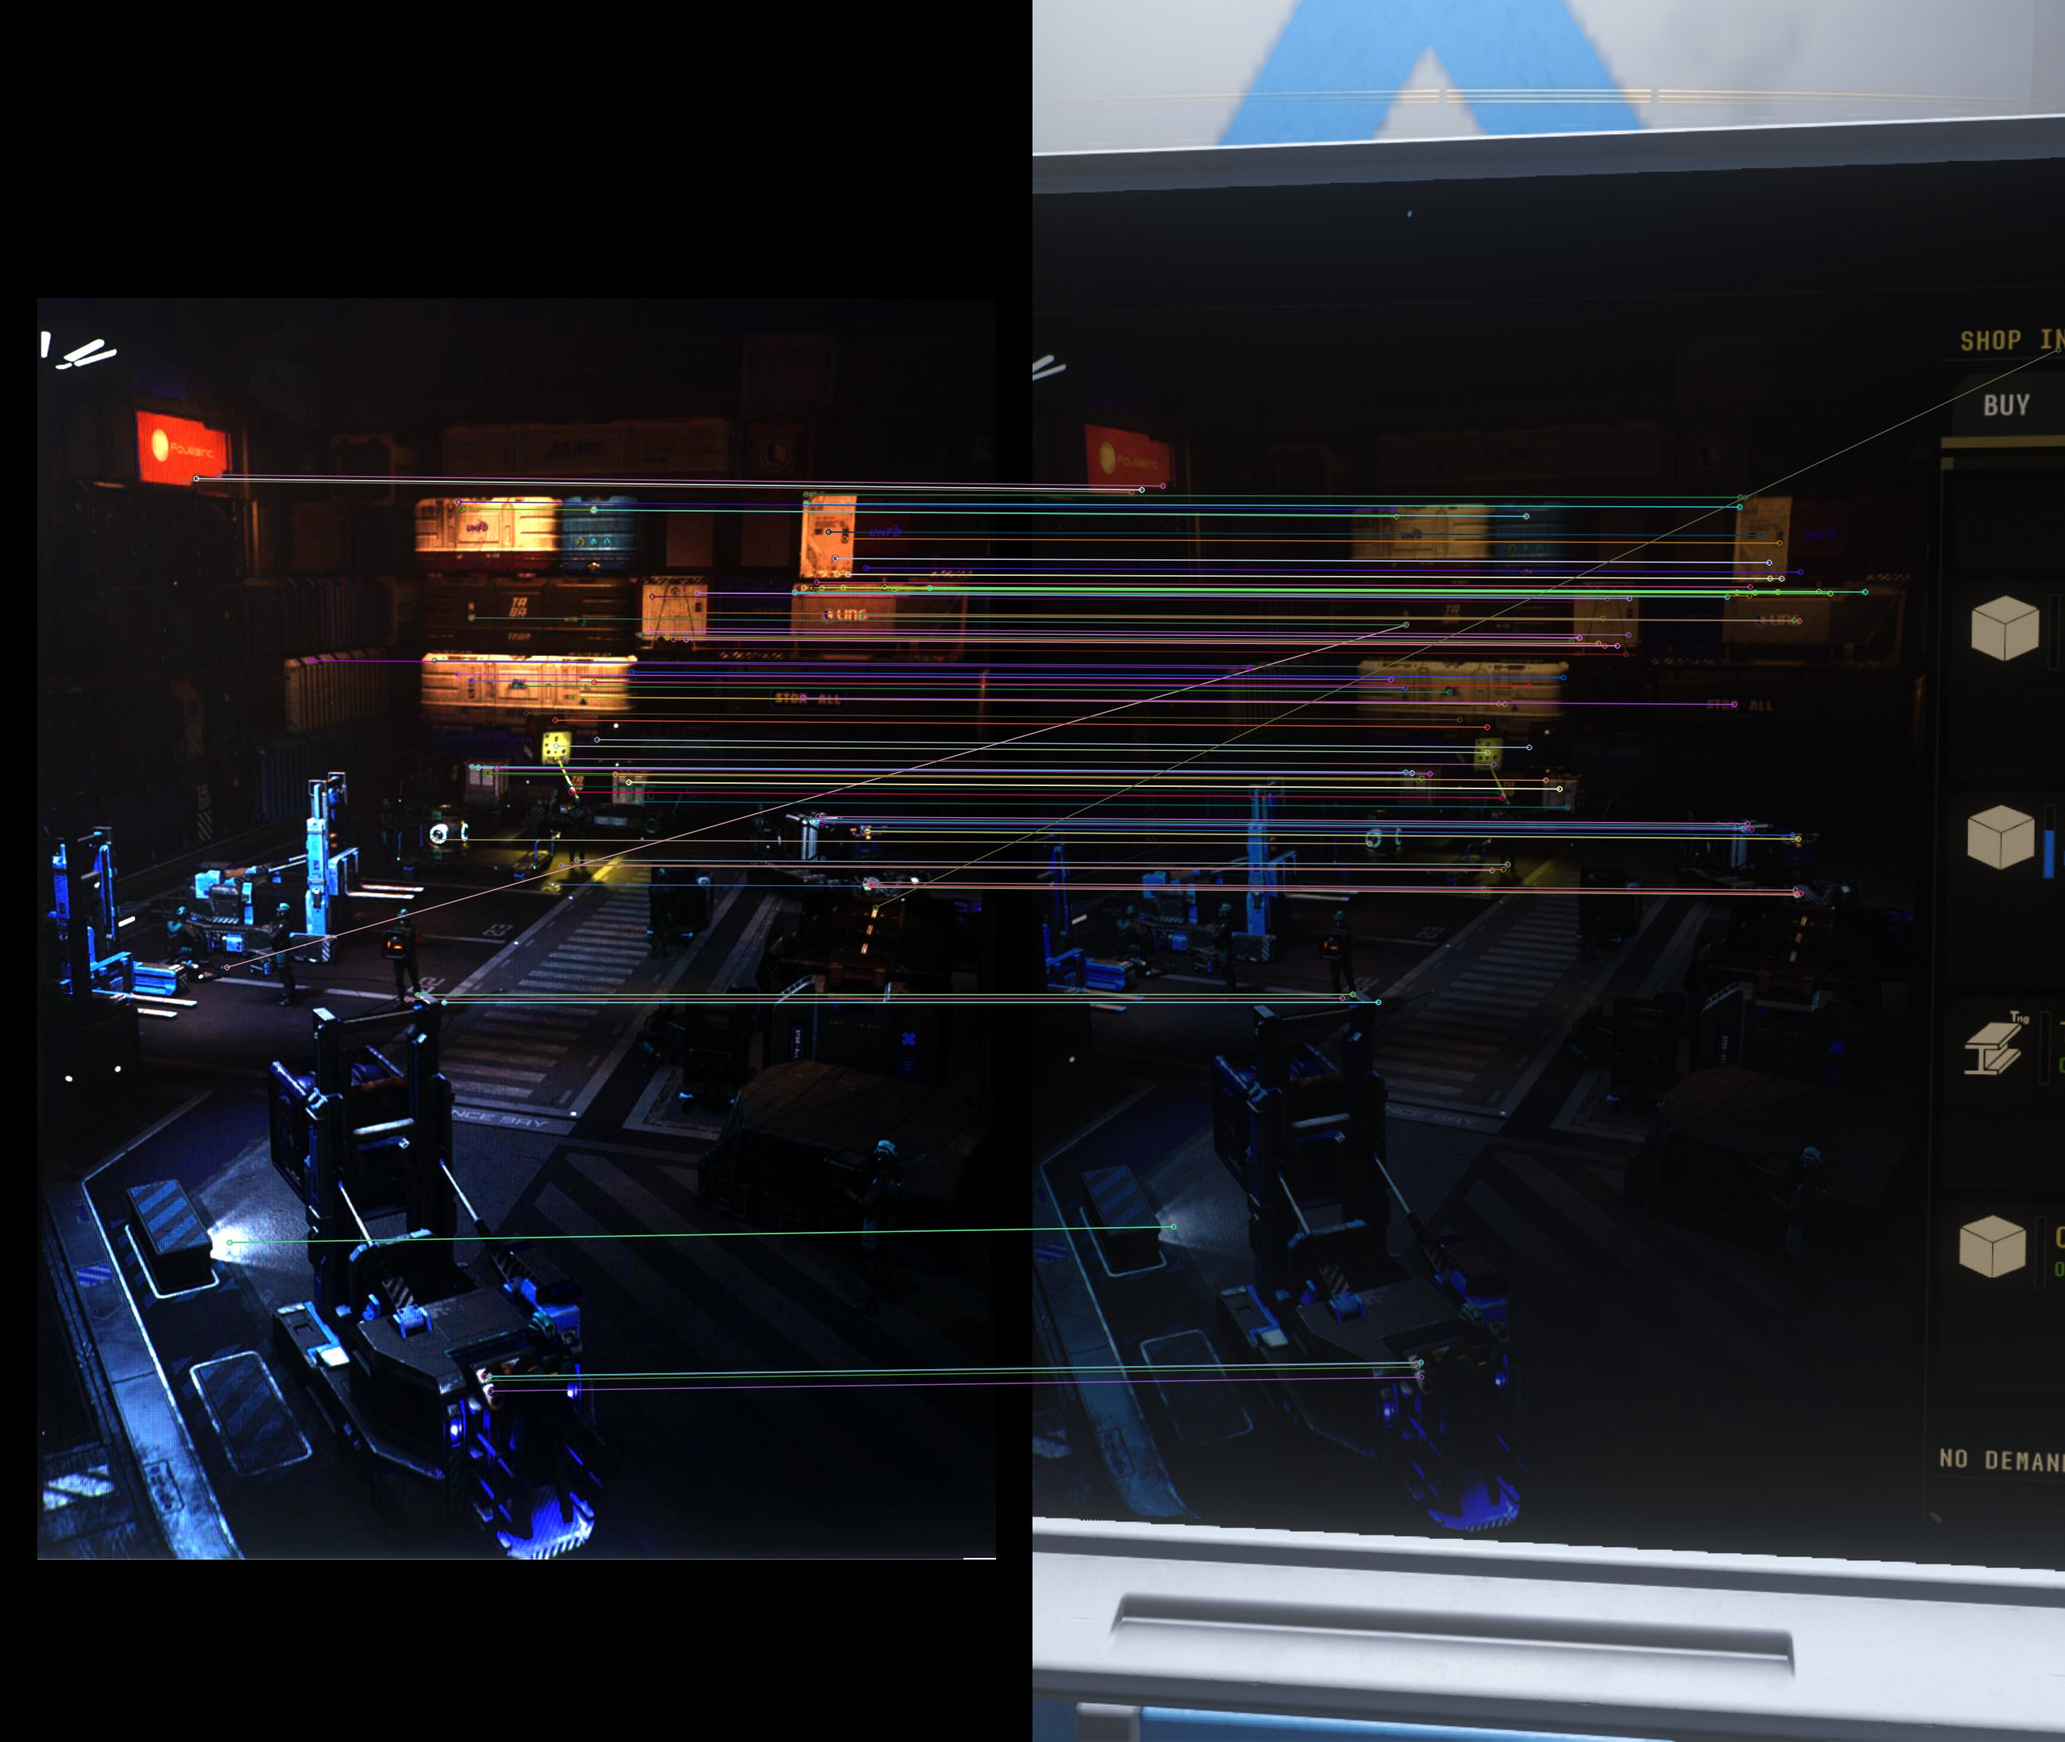
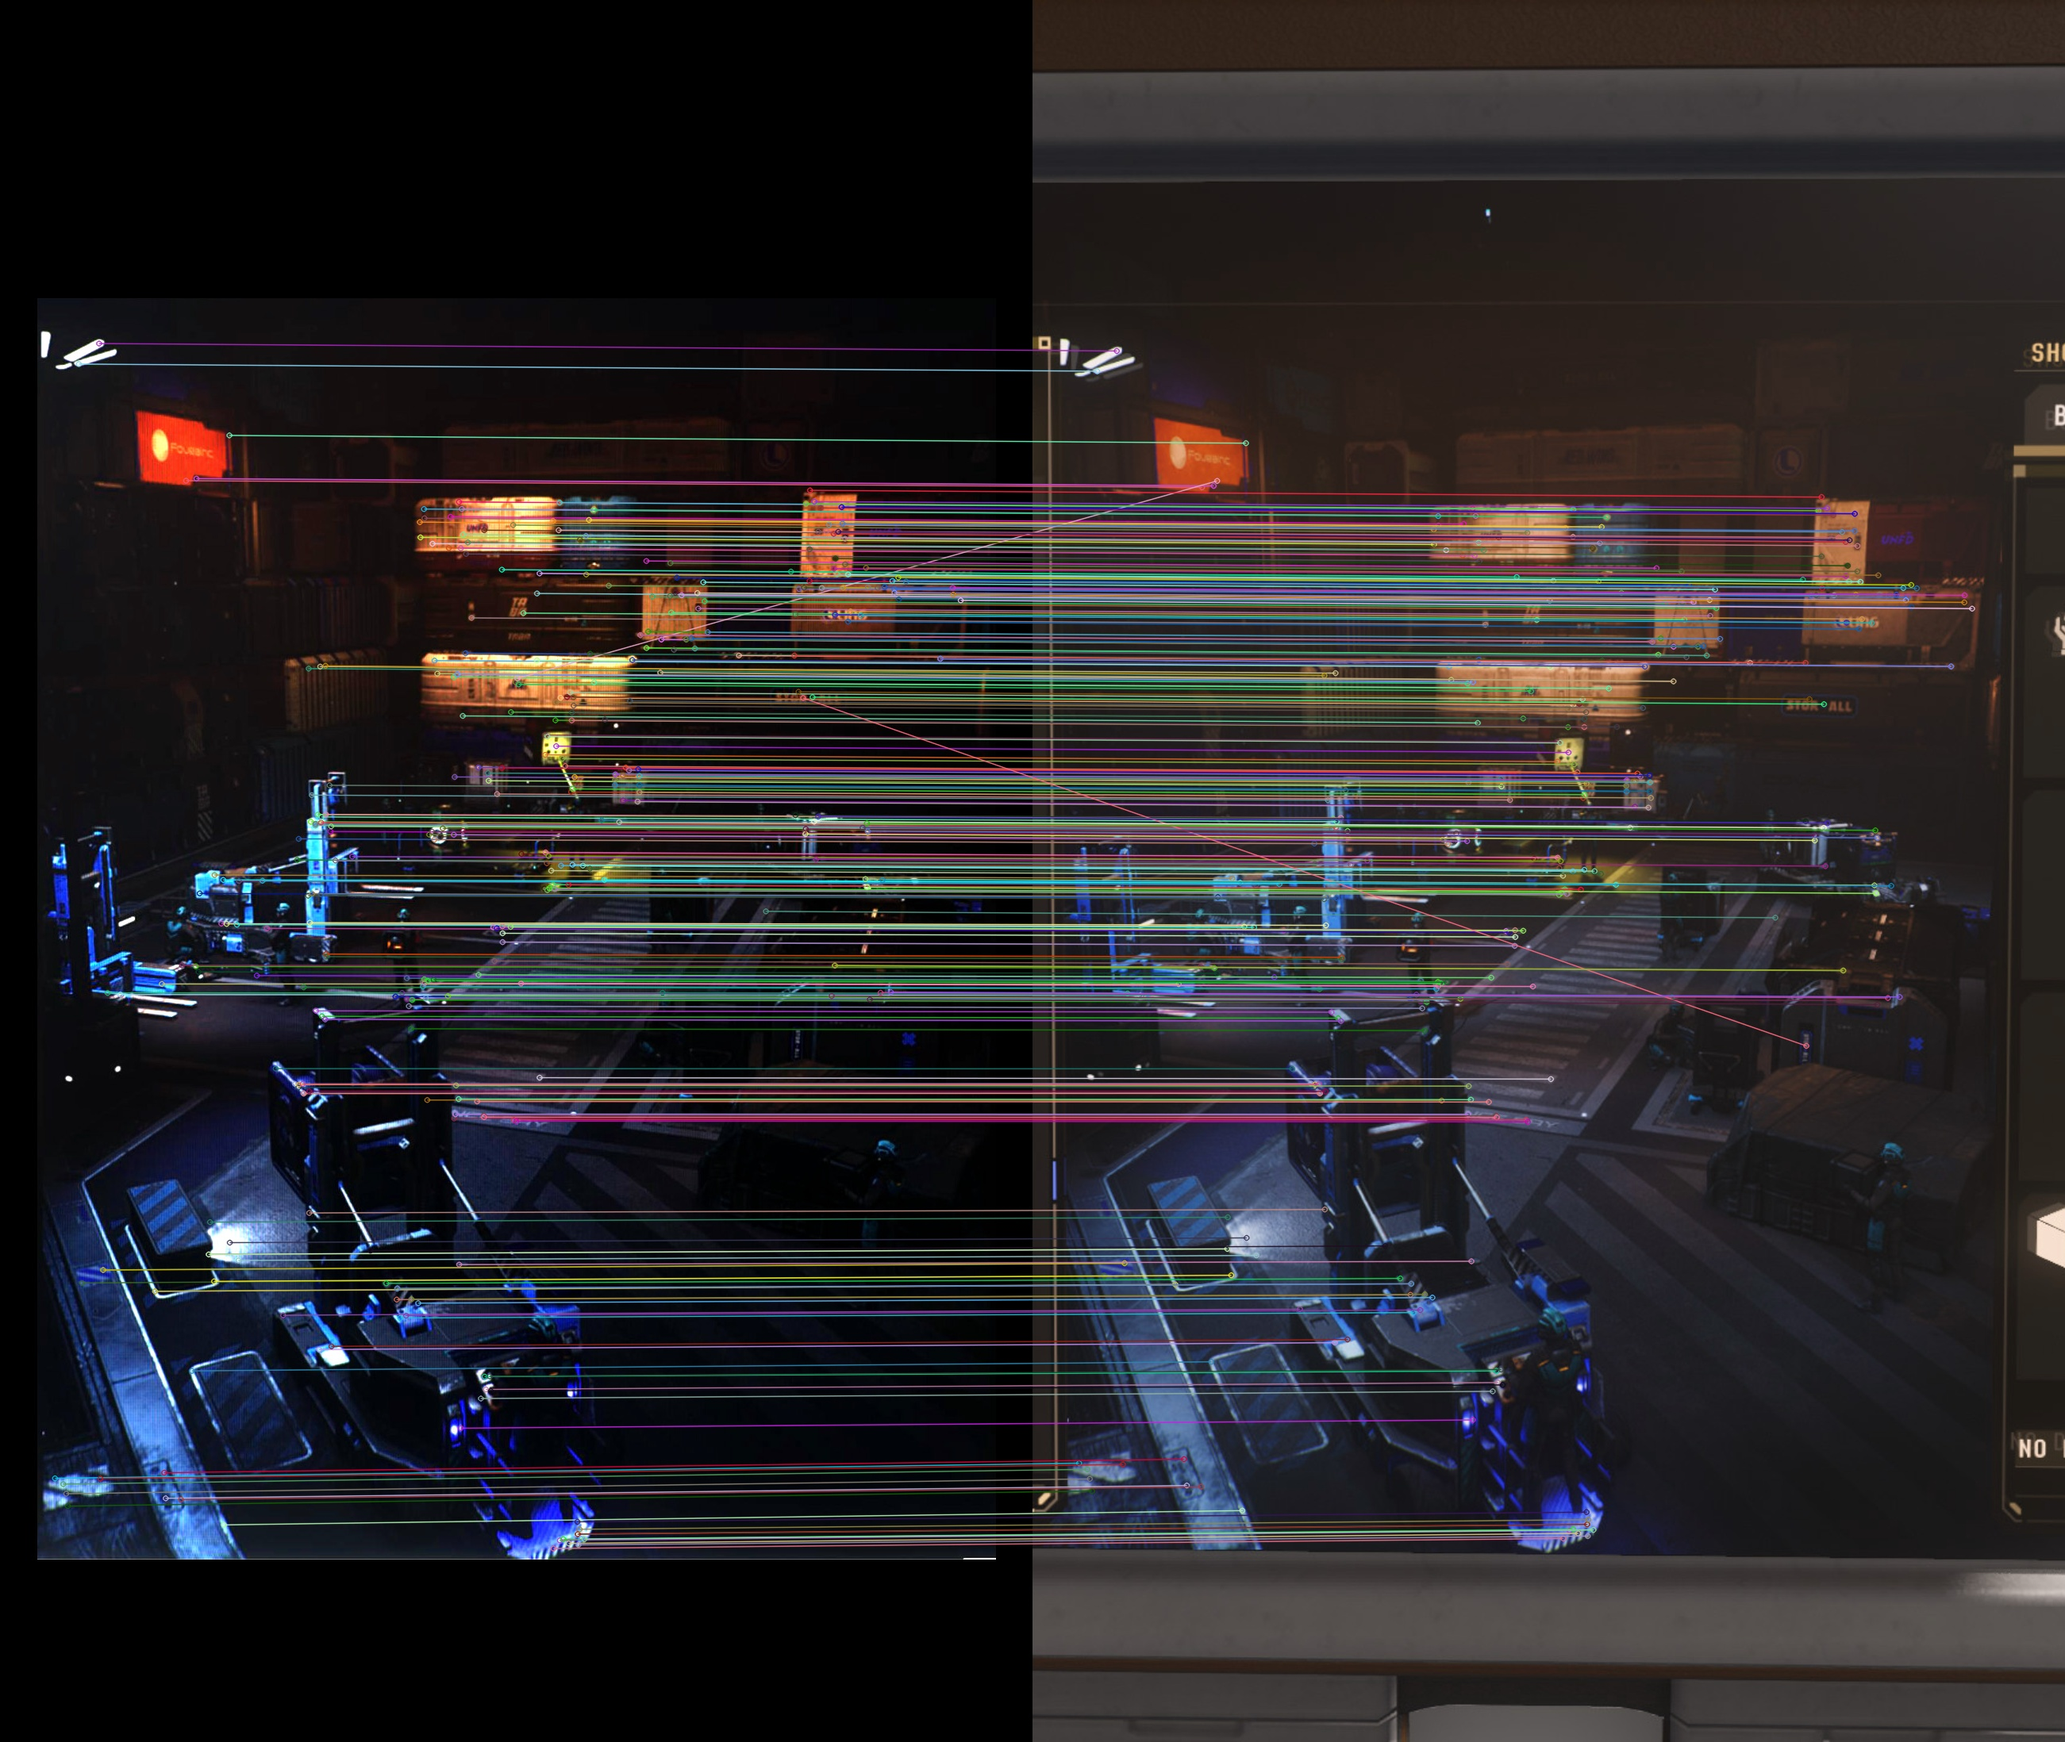
docs: _ALL_COMMANDS.md exhaustif + màj debug_matches.jpg

diff --git a/docs/_ALL_COMMANDS.md b/docs/_ALL_COMMANDS.md
@@ -1,0 +1,390 @@
+# UEXInfo — Liste exhaustive des commandes CLI
+
+> Toutes les commandes commencent par `/` (espaces/tabulations tolérés en préfixe)
+> Autocomplétion disponible via `Tab`
+> Aide contextuelle : `/help <commande>`
+
+---
+
+## Syntaxe générale
+
+```
+/commande [sous-commande] [argument] [--option valeur]
+```
+
+---
+
+## /help — Aide
+
+**Décorateur :** `@register("help", "h", "?")`
+
+**Sous-commandes :**
+- `/help` : Aide générale
+- `/help <commande>` : Aide sur une commande spécifique
+
+---
+
+## /config — Configuration
+
+**Décorateur :** `@register("config", "c")`
+
+**Sous-commandes :**
+- `/config` : Afficher la configuration actuelle
+- `/config ship add <nom>` : Ajouter un vaisseau disponible
+- `/config ship remove <nom>` : Retirer un vaisseau
+- `/config ship set <nom>` : Définir le vaisseau actif
+- `/config ship cargo <nom> <scu>` : Définir le cargo SCU d'un vaisseau
+- `/config trade profit <aUEC>` : Profit minimum par SCU
+- `/config trade margin <pct>` : Marge minimale en %
+- `/config trade illegal on|off` : Autoriser les commodités illégales
+- `/config cache ttl <secondes>` : TTL du cache prix
+- `/config cache clear` : Vider tout le cache
+- `/config scan mode ocr|log|confirm` : Mode de scan
+- `/config scan tesseract <path>` : Chemin tesseract.exe
+- `/config scan logpath <path>` : Chemin app.log SC-Datarunner
+- `/config scan screenshots <path>` : Dossier screenshots SC
+- `/config scan auto_ocr on|off` : OCR automatique dès détection
+- `/config scan hour <n>` : Fenêtre /mission scan en heures
+- `/config scan session_gap <min>` : Gap entre sessions en minutes
+- `/config close normal|dblclick` : Comportement du bouton ✕ de l'overlay
+- `/config clock on|off` : Horloge en fond de l'overlay
+- `/config cmdhistory <n>` : Nombre de commandes+résultats conservés
+- `/config player` : Afficher la config joueur
+
+---
+
+## /ship — Gestion des vaisseaux
+
+**Décorateur :** `@register("ship", "sh")`
+
+**Sous-commandes :**
+- `/ship list` : Lister les vaisseaux configurés
+- `/ship add <nom>` : Ajouter un ou plusieurs vaisseaux
+- `/ship remove <nom>` : Retirer un vaisseau
+- `/ship set <nom>` : Définir le vaisseau actif
+- `/ship cargo <nom>` : Afficher les grilles cargo du vaisseau
+- `/ship cargo <nom> <32xN> [16xN] …` : Définir les grilles (particulier)
+- `/ship cargo <nom> --all <32xN> [16xN] …` : Définir les grilles (général)
+- `/ship cargo <nom> --all` : Afficher la config générale du modèle
+- `/ship cargo <nom> --clear` : Effacer l'override général du modèle
+
+---
+
+## /go — Position courante et destination
+
+**Décorateur :** `@register("go", "g", "lieu")`
+
+**Sous-commandes :**
+- `/go` : Afficher position courante et destination
+- `/go <lieu>` : Définir la position courante
+- `/go from <lieu>` : Définir le point de départ
+- `/go to <lieu>` : Définir la destination
+- `/go clear` : Réinitialiser position et destination
+
+---
+
+## /lieu — Alias de /go
+
+**Décorateur :** `@register("lieu")`
+
+---
+
+## /arriver — Commande non documentée
+
+**Décorateur :** `@register("arriver", "arriv├®", "arrive", "arrived")`
+
+---
+
+## /dest — Destination
+
+**Décorateur :** `@register("dest", "d")`
+
+**Sous-commandes :**
+- `/dest` : Afficher la destination courante
+- `/dest <lieu>` : Définir la destination
+- `/dest clear` : Effacer la destination
+- `/dest effacer` : Alias de clear
+
+---
+
+## /select — Filtres actifs
+
+**Décorateur :** `@register("select", "sel")`
+
+**Sous-commandes :**
+- `/select` : Afficher les filtres actifs
+- `/select <type> <nom>` : Raccourci ajout de filtre
+- `/select add <type> <nom>` : Ajouter un filtre
+- `/select remove <type> <nom>` : Retirer un filtre
+- `/select clear [type]` : Supprimer les filtres
+
+---
+
+## /player — Gestion du joueur
+
+**Décorateur :** `@register("player", "p")`
+
+**Sous-commandes :**
+- `/player info` : État joueur (vaisseau, position, dest)
+- `/player ship add <nom> [scu]` : Ajouter un vaisseau
+- `/player ship set <nom>` : Vaisseau actif
+- `/player ship scu <nom> <n>` : Capacité cargo en SCU
+- `/player ship remove <nom>` : Supprimer un vaisseau
+- `/player @<lieu>` : Définir la position courante
+- `/player dest @<lieu>` : Définir la destination
+
+---
+
+## /scan — Scanner un terminal
+
+**Décorateur :** `@register("scan", "s")`
+
+**Sous-commandes :**
+- `/scan` : Dernier screenshot Star Citizen (OCR)
+- `/scan ecran` : Capture la fenêtre SC en direct (ou presse-papiers)
+- `/scan screen` : Alias de /scan ecran
+- `/scan screenshot <fichier>` : Scanner un fichier image directement
+- `/scan log` : Lire TOUS les scans du log SC-Datarunner
+- `/scan log new` : Lire uniquement les nouveaux scans (incrémental)
+- `/scan log reset` : Remettre l'offset à 0
+- `/scan status` : Afficher le dernier résultat
+- `/scan history [n]` : Historique des n derniers scans
+
+---
+
+## /auto — Contrôle des automatisations
+
+**Décorateur :** `@register("auto")`
+
+**Sous-commandes :**
+- `/auto` : Afficher l'état des automatisations
+- `/auto log on|off` : Activer/désactiver la lecture auto du log
+- `/auto signal.scan on|off` : Activer/désactiver le signalement des nouveaux scans
+- `/auto log.accept on|off` : Activer/désactiver la validation auto des valeurs log
+
+---
+
+## /undo — Annuler le dernier scan
+
+**Décorateur :** `@register("undo")`
+
+---
+
+## /trade — Recherche commerciale
+
+**Décorateur :** `@register("trade", "t")`
+
+**Sous-commandes :**
+- `/trade` : Résumé buy+sell pour une commodité
+- `/trade buy <commodité>` : Où acheter une commodité
+- `/trade sell <commodité>` : Où vendre une commodité
+- `/trade <commodité>` : Résumé buy+sell pour une commodité
+- `/trade from <terminal>` : Bilan au départ d'un terminal
+- `/trade to <terminal>` : Bilan vers un terminal destination
+- `/trade best` : Meilleures routes (position courante)
+- `/trade best --profit` : Trier par profit total
+- `/trade best --roi` : Trier par ROI
+- `/trade best --scu <n>` : Pour n SCU de cargo
+- `/trade compare <commodité>` : Comparer UEX et sc-trade.tools
+- `/trade sctrade` : Utilise sc-trade.tools pour trouver les meilleures routes
+
+---
+
+## /route — Routes commerciales
+
+**Décorateur :** `@register("route", "itineraire", "itin├®raire", "chemin")`
+
+**Sous-commandes :**
+- `/route` : Routes depuis position courante
+- `/route from <terminal>` : Routes depuis un terminal
+- `/route to <terminal>` : Routes vers une destination
+- `/route --commodity <nom>` : Filtrer sur une commodité
+- `/route --min-profit <aUEC>` : Profit minimum total
+- `/route --scu <n>` : Taille cargo
+
+---
+
+## /plan — Plan de vol multi-étapes
+
+**Décorateur :** Non implémenté
+
+---
+
+## /info — Informations détaillées
+
+**Décorateur :** `@register("info", "i", "?")`
+
+**Sous-commandes :**
+- `/info <lieu>` : Recherche libre (terminal, commodité, vaisseau)
+- `/info terminal <nom>` : Détail d'un terminal
+- `/info commodity <nom>` : Détail d'une commodité
+- `/info ship <nom>` : Fiche vaisseau (achat, location, cargo)
+- `/info list [filtre]` : Liste des commodités (tri alphabétique)
+- `/info list -p+ [filtre]` : Tri par prix croissant
+- `/info list -p- [filtre]` : Tri par prix décroissant
+- `/info list -b+ [filtre]` : Tri par bénéfice croissant
+- `/info list -b- [filtre]` : Tri par bénéfice décroissant
+
+---
+
+## /explore — Navigation hiérarchique
+
+**Décorateur :** `@register("explore", "x", "exp")`
+
+**Sous-commandes :**
+- `/explore` : Liste des catégories navigables
+- `/explore <système>` : Planètes et corps dans le système
+- `/explore <sys>.<corps>` : Lieux (stations, villes…)
+- `/explore <sys>.<corps>.<lieu>` : Terminaux et infos du lieu
+- `/explore ship` : Fabricants de vaisseaux
+- `/explore ship.<fabricant>` : Vaisseaux d'un fabricant
+- `/explore commodity` : Catégories de commodités
+- `/explore commodity.<catégorie>` : Commodités de la catégorie
+
+---
+
+## /nav — Réseau de transport
+
+**Décorateur :** `@register("nav", "navigation", "n", "qt", "quantum")`
+
+**Sous-commandes :**
+- `/nav` : Stats générales (nœuds, routes, jump points)
+- `/nav info` : Identique à /nav seul
+- `/nav nodes [système]` : Lister les nœuds, filtrable par système
+- `/nav edges [lieu]` : Lister les routes, filtrable par nœud de départ
+- `/nav jumps` : Lister les jump points inter-systèmes
+- `/nav route <de> <vers>` : Calcul du plus court chemin QT entre deux lieux
+- `/nav add-route <de> <vers> <Gm> [type]` : Ajouter une route manuellement
+- `/nav add-jump <nom> <sys1> <sys2> <entrée> <sortie> [S|M|L]` : Ajouter un jump point
+- `/nav remove-route <de> <vers>` : Supprimer une route
+- `/nav remove-jump <nom>` : Supprimer un jump point
+- `/nav save` : Sauvegarder les modifications
+- `/nav raz` : Réinitialiser depuis le fichier source
+- `/nav populate` : Interroge l'API UEX pour toutes les commodités achetables et importe automatiquement les distances entre terminaux dans le graphe
+
+---
+
+## /mission — Catalogue de missions
+
+**Décorateur :** `@register("mission", "m")`
+
+**Sous-commandes :**
+- `/mission list` : Catalogue validé
+- `/mission scan` : OCR récents → sélection
+- `/mission scan all` : Toute la screenshot_db
+- `/mission scan today` : Captures depuis minuit
+- `/mission scan terminal` : Terminaux scannés dans la base
+- `/mission add` : Depuis le dernier /scan
+- `/mission add <fichier.jpg>` : Scanner un screenshot directement
+- `/mission add <nom> ...` : Saisie manuelle avec mots-clés
+- `/mission edit <id> ...` : Modifier une mission du catalogue
+- `/mission remove <id>` : Supprimer du catalogue
+
+---
+
+## /dev — Mode développeur
+
+**Décorateur :** `@register("dev")`
+
+**Sous-commandes :**
+- `/dev` : Statut du mode dev et de la DB
+- `/dev on|off` : Activer/désactiver le mode dev (persisté)
+- `/dev scan import <dossier>` : Importer tous les screenshots d'un dossier
+- `/dev scan import <dossier> all` : Réimporter même les fichiers déjà traités
+- `/dev scan clear` : Vider la screenshot_db
+- `/dev db` : Statistiques et contenu de la screenshot_db
+- `/dev db list [n]` : Lister les n dernières entrées
+- `/dev calc.missions` : Matrice missions : départ × destination × distance
+
+---
+
+## /debug — Niveau de trace interne
+
+**Décorateur :** `@register("debug")`
+
+**Sous-commandes :**
+- `/debug` : Afficher le niveau de trace actuel
+- `/debug <0-5>` : Définir le niveau (0 = off, 5 = max)
+
+---
+
+## /voyage — Planification de voyages
+
+**Décorateur :** `@register("voyage", "v")`
+
+**Sous-commandes :**
+- `/voyage` : Afficher le voyage actif (ou la liste)
+- `/voyage on` : Activer le dernier voyage ou en créer un
+- `/voyage off` : Désactiver (voyage conservé)
+- `/voyage new [nom]` : Créer un nouveau voyage et l'activer
+- `/voyage list` : Missions du voyage actif
+- `/voyage list --trajets` : Liste de tous les voyages
+- `/voyage add [m1 m2 ...]` : Ajouter des missions au voyage actif
+- `/voyage remove <m>` : Retirer une mission
+- `/voyage clear` : Vider toutes les missions du voyage
+- `/voyage name <nom>` : Renommer le voyage actif
+- `/voyage copy [n|nom]` : Copier/fusionner vers un autre voyage
+- `/voyage accept` : Valider + analyser, désactiver le voyage
+- `/voyage later` : Sauvegarder sans analyser, désactiver
+- `/voyage cancel` : Annuler les modifications
+
+---
+
+## /refresh — Mise à jour du cache
+
+**Décorateur :** `@register("refresh", "r", "rf")`
+
+**Sous-commandes :**
+- `/refresh` : Rafraîchir le cache prix (TTL expiré)
+- `/refresh all` : Forcer le refresh complet (statique + prix)
+- `/refresh static` : Rafraîchir données statiques
+- `/refresh prices` : Rafraîchir les prix uniquement
+- `/refresh sctrade` : Rafraîchir données sc-trade.tools
+- `/refresh status` : Afficher l'état du cache
+
+---
+
+## /history — Historique des commandes
+
+**Décorateur :** `@register("history", "hist")`
+
+**Sous-commandes :**
+- `/history [n]` : Afficher les n dernières commandes
+- `/history stats` : Statistiques
+- `/history clear` : Effacer l'historique
+
+---
+
+## /= — Calculatrice
+
+**Décorateur :** `@register("=", "calc", "calculette", "calcul")`
+
+**Sous-commandes :**
+- `= <expression>` : Calculer une expression arithmétique
+
+---
+
+## /exit — Quitter
+
+**Décorateur :** Non implémenté
+
+**Sous-commandes :**
+- `/exit`
+- `/quit`
+- `/bye`
+
+---
+
+## /sync — Synchronisation
+
+**Décorateur :** `@register("sync", "resync")`
+
+---
+
+## /resync — Alias de /sync
+
+**Décorateur :** Non implémenté
+
+---
+
+*Liste exhaustive des commandes — uexinfo v0.1*
